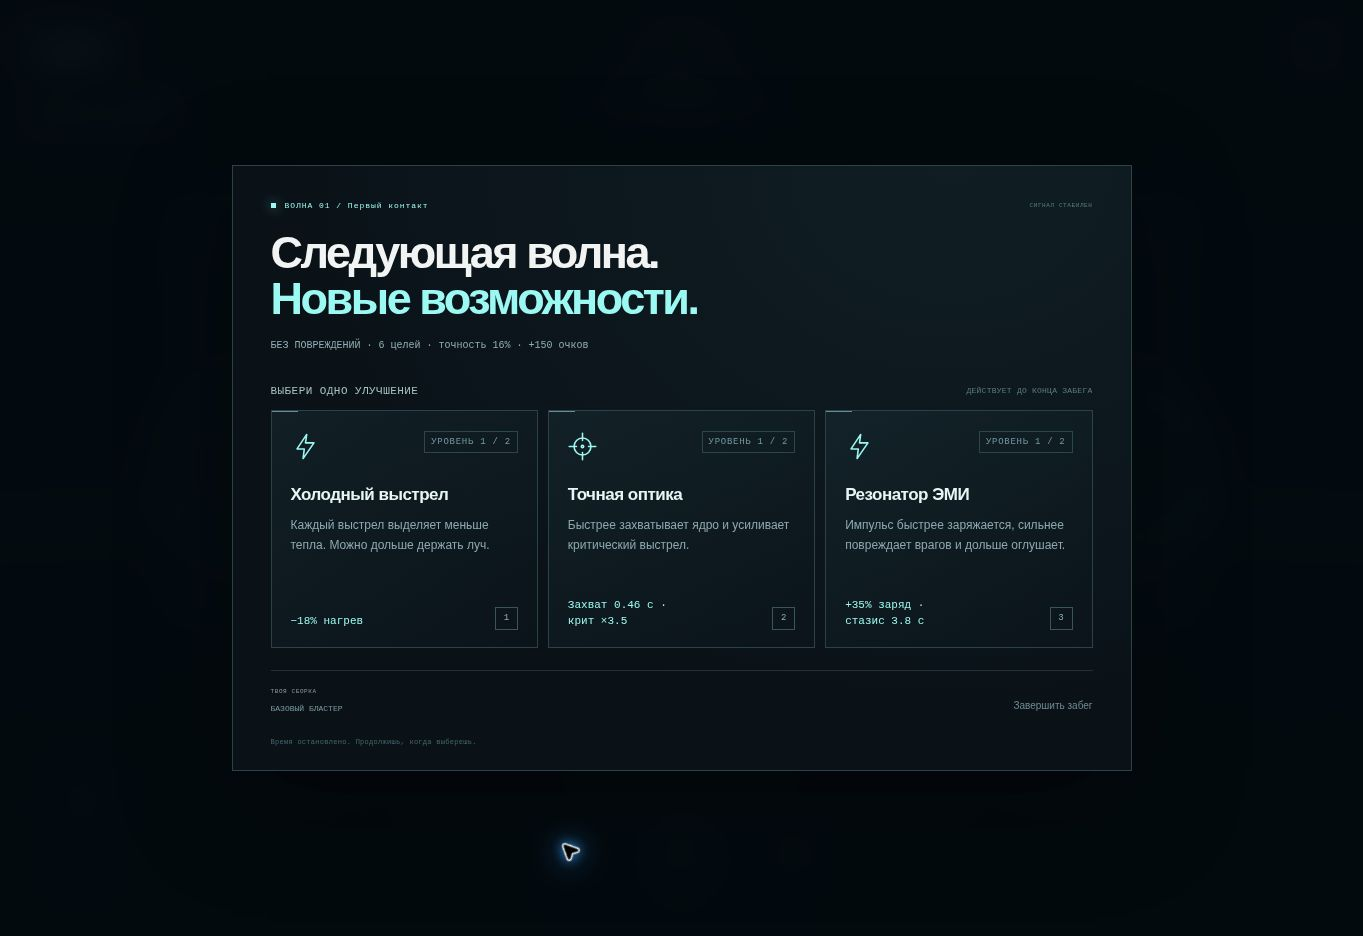
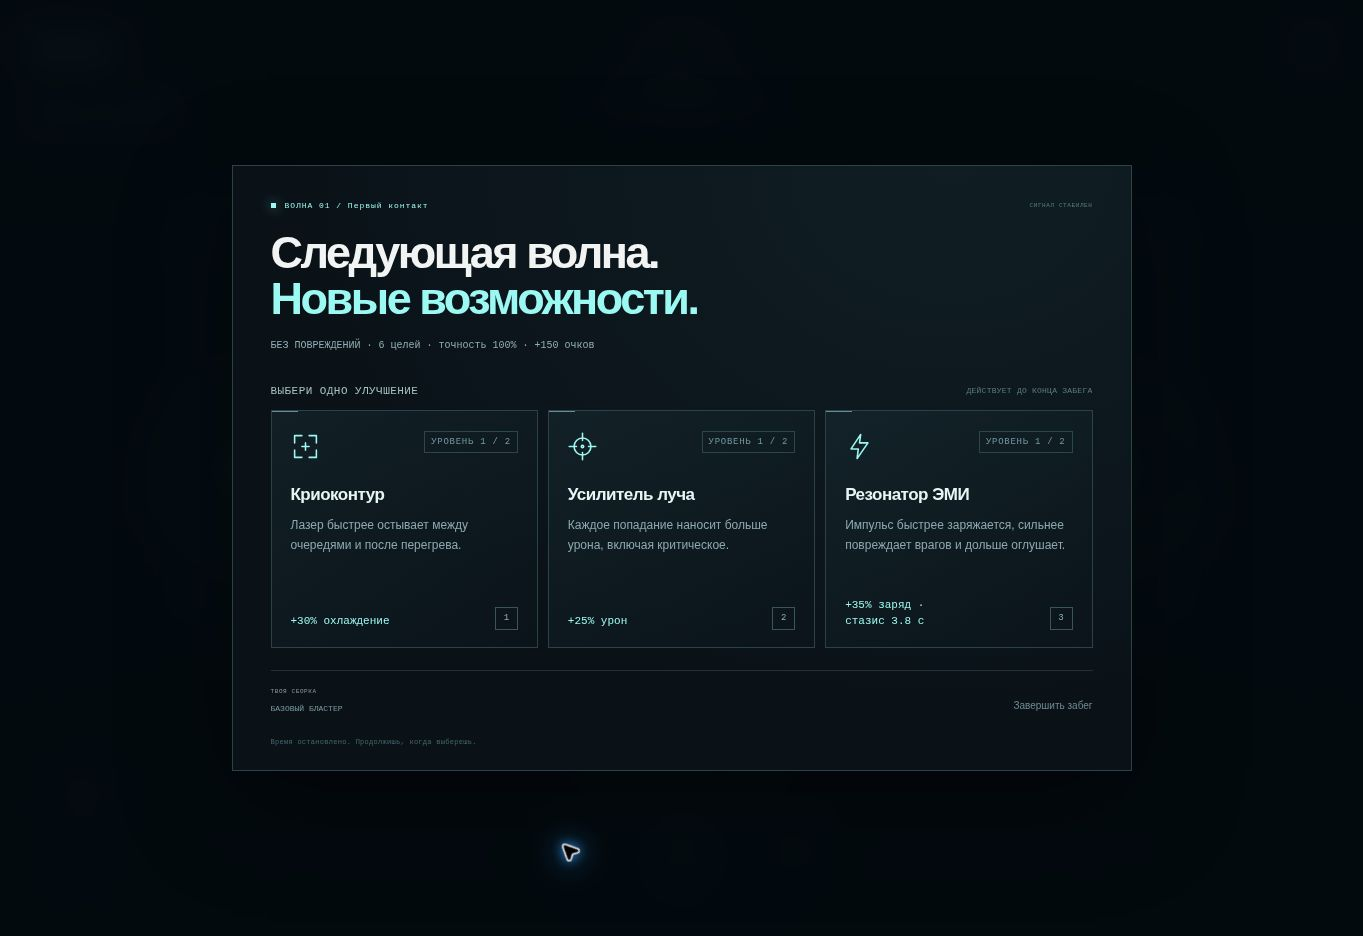
Document 38 BREACH checks and add verified live portal and chrono-rift previews

diff --git a/breach-ar/QA_REPORT.md b/breach-ar/QA_REPORT.md
@@ -53,4 +53,15 @@ node tests/app-regressions.mjs
 
 Автоматического распознавания стен и окклюзии за реальной мебелью в игре нет. Игрок задаёт точки порталов. В режиме камеры отслеживается поворот, в совместимом пространственном AR — положение устройства. Физическое устройство требуется для завершающей проверки этих режимов.
 
-Веб-проверка опубликованного обновления и снимки интерфейса фиксируются после развёртывания.
+## Проверка опубликованной игры
+
+Проверена публичная страница `https://step3dlab.github.io/Technopark_project/breach-ar/?v=3.1`. Браузер действительно загружает `app.js?v=3.1`; развёртывание кода на GitHub Pages завершилось успешно.
+
+- В тренировке обычным удержанием огня захвачен портал. Подтверждены зелёный союзный статус, десятисекундный таймер, реальные уничтожения врагов и отдельный учёт перехвата.
+- Первая волна завершена с уничтожением шести целей; появились три карточки улучшения. Осознанное новое нажатие пробела выбирает карточку, после чего запускается отсчёт и следующая волна.
+- Естественные попадания снизили щит до нуля и включили хроноразлом. На вертикальном экране 390 × 844 проверены таймер, доступный лазер, отключённый импульс и изменение счётчика осколков с 0/3 на 1/3 после настоящего нажатия огня.
+- После исправления отрисовки оставшиеся осколки отчётливо видны поверх близкого противника. Снимок сохранён в `preview-rift.jpg`. Полное спасение тремя попаданиями проверено автоматическим сценарием; живой браузерный прогон подтверждает попадание по осколку и исход по истечению таймера.
+- Проверены лобби и инструкция на 360 × 740, карточки и бой на 390 × 844, горизонтальная раскладка на 844 × 390. Кнопка закрытия длинной инструкции остаётся видимой.
+- В облачном браузере аппаратный WebGL отключён, поэтому живые сцены проверены через CanvasRenderer. Контракт прозрачности, глубины и порядка для WebGL проверен в движке; фактическое изображение WebGL на физическом устройстве требует отдельного прогона.
+
+Снимки: `preview.jpg`, `preview-portal.jpg`, `preview-rift.jpg`, `preview-upgrades.jpg`. Это изображения реальной опубликованной игры, а не макеты.

diff --git a/breach-ar/README.md b/breach-ar/README.md
@@ -110,6 +110,10 @@ node tests/app-regressions.mjs
 
 ![Стартовый экран BREACH](./preview.jpg)
 
+![Захваченный портал: союзная турель и разрушение захватчика](./preview-portal.jpg)
+
+![Хроноразлом на вертикальном экране: осколки видны поверх близкого врага](./preview-rift.jpg)
+
 ![Выбор улучшения между волнами](./preview-upgrades.jpg)
 
 Доступность пространственного AR определяется возможностями устройства; снимок сделан в браузере без аппаратного WebGL.
